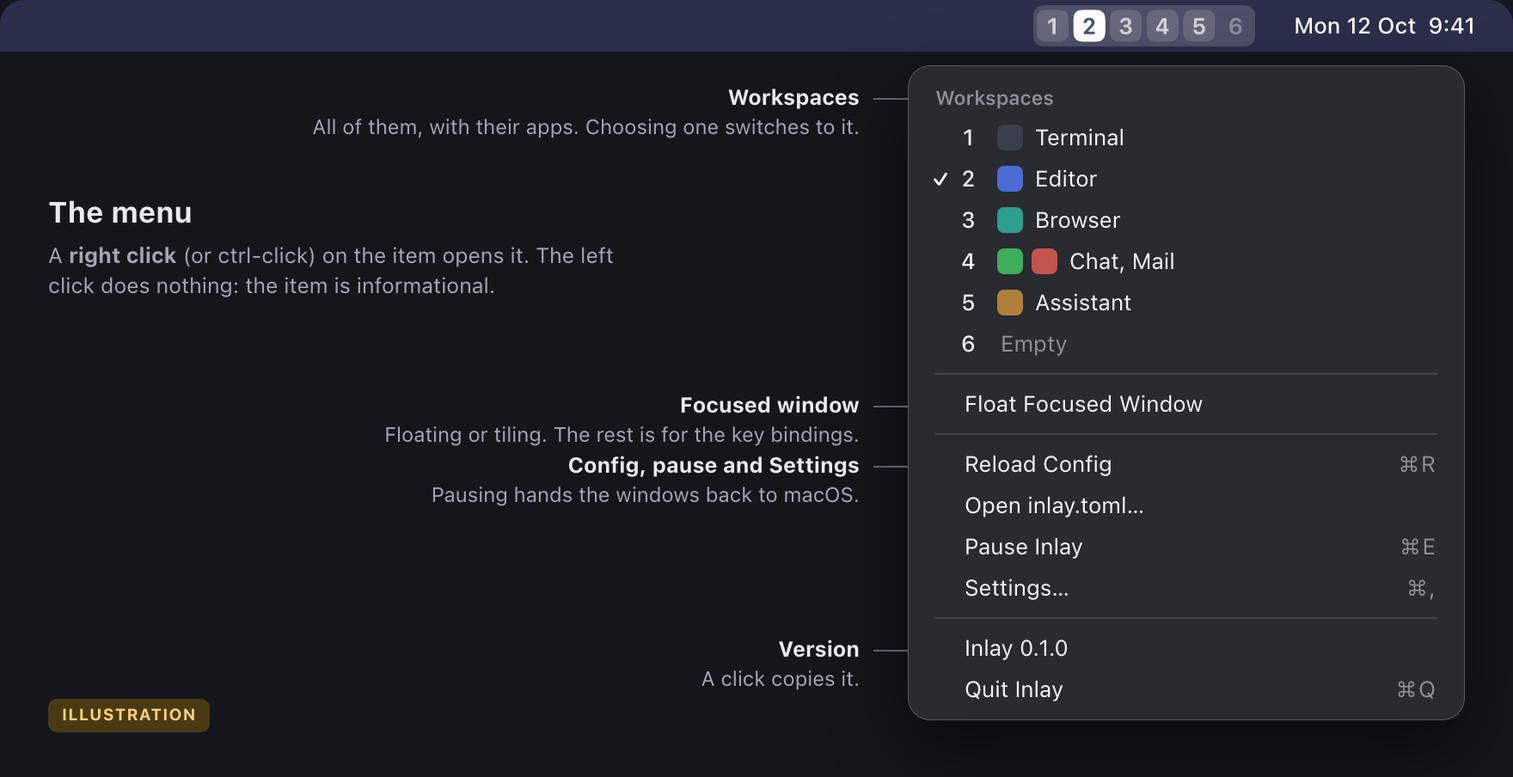
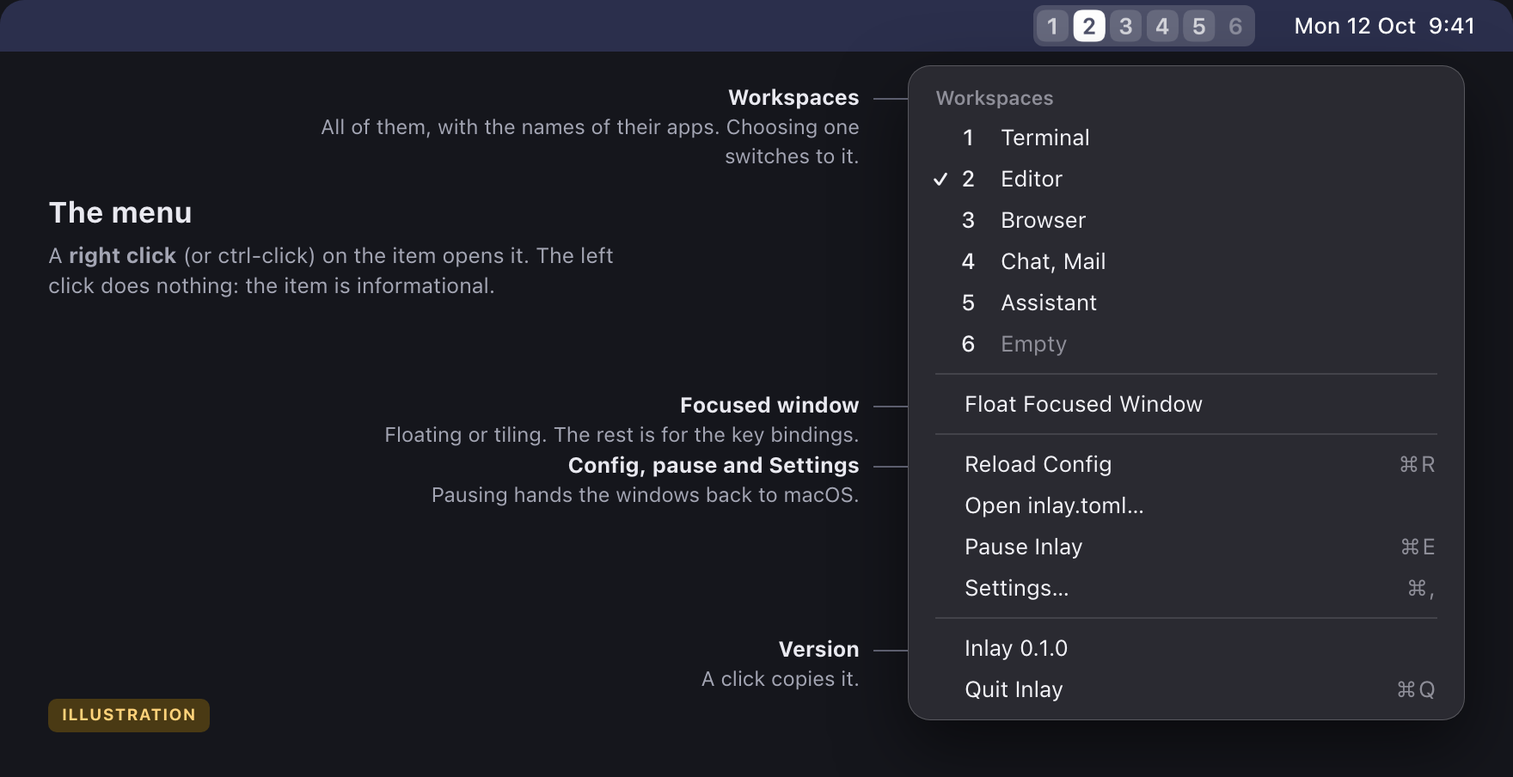
Document the mode in the marker, the linked config folder and the uninstall
README and images: the binding mode in the marker of the focused workspace,
the menu without icons, the Settings window on a small screen and its debug
mode, the question of install.sh and the config that 'inlay uninstall'
removes. The terminal images are the new output of the isolated runs.

Changed region(s): [[0.6562, 0.1549, 0.7812, 0.4027], [0.1875, 0.1549, 0.5625, 0.2168]]

diff --git a/docs/images/src/menu-bar-colors.html b/docs/images/src/menu-bar-colors.html
@@ -12,23 +12,23 @@
 <body class="png">
 <div class="sheet"><span class="tag real">Real render</span>
   <h1>[menu-bar.colors]</h1>
-  <div class="sub">Each color is <code class="key">'#RRGGBB'</code>, <code class="key">'#RRGGBBAA'</code>, <code class="key">'system-accent'</code> or <code class="key">'auto'</code>: the color of the menu bar text, white on a dark bar and black on a light one. Shown in the <code class="key">resize</code> mode with <code class="key">show-mode = true</code>, so the accent is visible.</div>
+  <div class="sub">Each color is <code class="key">'#RRGGBB'</code>, <code class="key">'#RRGGBBAA'</code>, <code class="key">'system-accent'</code> or <code class="key">'auto'</code>: the color of the menu bar text, white on a dark bar and black on a light one. Shown in the <code class="key">resize</code> mode with <code class="key">show-mode = true</code>, so the marker of the mode is visible.</div>
   <div class="cols">
     <div><div class="toml mono">
 # The defaults
 [menu-bar.colors]
-    accent = 'system-accent'
+    accent = 'auto'
     focused = 'auto'
     occupied = 'auto'
     empty = 'auto'
-</div><div class="bars"><div class="box d"><img class="item" src="render/menu-bar-6x/chips-mode-dark.png" style="height:33px"></div><div class="box l"><img class="item" src="render/menu-bar-6x/chips-mode-light.png" style="height:33px"></div></div><div class="cap"><small>The accent is the one of this Mac (System Settings › Appearance)</small></div></div>
+</div><div class="bars"><div class="box d"><img class="item" src="render/menu-bar-6x/chips-mode-dark.png" style="height:33px"></div><div class="box l"><img class="item" src="render/menu-bar-6x/chips-mode-light.png" style="height:33px"></div></div><div class="cap"><small>One color that follows the menu bar. With <code>accent = 'system-accent'</code>, the marker of a binding mode has the accent color of this Mac:</small></div><div class="bars" style="margin-top:6px"><div class="box d"><img class="item" src="render/menu-bar-6x/chips-mode-accent-dark.png" style="height:33px"></div><div class="box l"><img class="item" src="render/menu-bar-6x/chips-mode-accent-light.png" style="height:33px"></div></div></div>
     <div><div class="toml mono">
 [menu-bar.colors]
     accent = '#E06C75'
     focused = '#D19A66'
     occupied = '#ABB2BF'
     empty = '#6B7280'
-</div><div class="bars"><div class="box d"><img class="item" src="render/menu-bar-6x/chips-mode-custom-dark.png" style="height:33px"></div><div class="box l"><img class="item" src="render/menu-bar-6x/chips-mode-custom-light.png" style="height:33px"></div></div><div class="bars" style="margin-top:6px"><div class="box d"><img class="item" src="render/menu-bar-6x/square-mode-custom-dark.png" style="height:33px"></div><div class="box l"><img class="item" src="render/menu-bar-6x/square-mode-custom-light.png" style="height:33px"></div></div><div class="cap"><small><code>accent</code>: the mode badge · <code>focused</code>: the focused workspace · <code>occupied</code>: with windows (the name, and its background at 16%) · <code>empty</code>: without windows. A fixed color does not adapt to the menu bar</small></div></div>
+</div><div class="bars"><div class="box d"><img class="item" src="render/menu-bar-6x/chips-mode-custom-dark.png" style="height:33px"></div><div class="box l"><img class="item" src="render/menu-bar-6x/chips-mode-custom-light.png" style="height:33px"></div></div><div class="bars" style="margin-top:6px"><div class="box d"><img class="item" src="render/menu-bar-6x/square-mode-custom-dark.png" style="height:33px"></div><div class="box l"><img class="item" src="render/menu-bar-6x/square-mode-custom-light.png" style="height:33px"></div></div><div class="cap"><small><code>accent</code>: the marker of a binding mode · <code>focused</code>: the focused workspace · <code>occupied</code>: with windows (the name, and its background at 16%) · <code>empty</code>: without windows. A fixed color does not adapt to the menu bar</small></div></div>
     <div><div class="toml mono">
 [menu-bar.colors]
     focused = 'system-accent'

diff --git a/docs/images/src/menu-bar-options.html b/docs/images/src/menu-bar-options.html
@@ -2,7 +2,7 @@
 <html lang="en"><head><meta charset="utf-8"><title>The options of the menu bar item</title>
 <link rel="stylesheet" href="lib.css"><script src="lib.js"></script>
 <style>
-  body { width: 880px; height: 372px; }
+  body { width: 880px; height: 476px; }
   .opt { margin-top: 18px; } .cells { display: flex; flex-wrap: wrap; gap: 10px 22px; margin-top: 8px; }
   .box { border-radius: 8px; overflow: hidden; background: #383d5c; height: 33px; display: inline-block; } .box img { display: block; }
   .cap { margin-top: 5px; }
@@ -13,7 +13,7 @@
   <div class="sub">Each key with its values, on a dark menu bar.</div>
 <div class="opt"><div class="label mono" style="text-transform:none;letter-spacing:0;font-size:12.5px;color:#ffd27a">dim-empty-workspaces</div><div class="cells"><div><div class="box"><img class="item" src="render/menu-bar-6x/chips-default-dark.png" style="height:33px"></div><div class="cap"><code>true</code> (the default): the empty workspace 6 is fainter</div></div><div><div class="box"><img class="item" src="render/menu-bar-6x/chips-no-dim-dark.png" style="height:33px"></div><div class="cap"><code>false</code>: only the missing background tells it apart</div></div></div></div>
 
-<div class="opt"><div class="label mono" style="text-transform:none;letter-spacing:0;font-size:12.5px;color:#ffd27a">show-mode</div><div class="cells"><div><div class="box"><img class="item" src="render/menu-bar-6x/chips-default-dark.png" style="height:33px"></div><div class="cap"><code>false</code> (the default), or the mode is <code>main</code></div></div><div><div class="box"><img class="item" src="render/menu-bar-6x/chips-mode-dark.png" style="height:33px"></div><div class="cap"><code>true</code>, in the <code>resize</code> mode: a badge with its initial</div></div><div><div class="box"><img class="item" src="render/menu-bar-6x/minimal-mode-dark.png" style="height:33px"></div><div class="cap">the same in <code>'minimal'</code></div></div><div><div class="box"><img class="item" src="render/menu-bar-6x/square-mode-dark.png" style="height:33px"></div><div class="cap"><code>'square'</code> always shows the mode, in its square</div></div></div></div>
+<div class="opt"><div class="label mono" style="text-transform:none;letter-spacing:0;font-size:12.5px;color:#ffd27a">show-mode</div><div class="cells"><div><div class="box"><img class="item" src="render/menu-bar-6x/chips-default-dark.png" style="height:33px"></div><div class="cap"><code>false</code> (the default), or the mode is <code>main</code></div></div><div><div class="box"><img class="item" src="render/menu-bar-6x/chips-mode-dark.png" style="height:33px"></div><div class="cap"><code>true</code>, in the <code>resize</code> mode: its initial in the chip of the focused workspace</div></div><div><div class="box"><img class="item" src="render/menu-bar-6x/chips-mode-fullscreen-dark.png" style="height:33px"></div><div class="cap">the same with a fullscreen window: an outline</div></div><div><div class="box"><img class="item" src="render/menu-bar-6x/square-default-dark.png" style="height:33px"></div><div class="cap"><code>'square'</code>, in the <code>main</code> mode</div></div><div><div class="box"><img class="item" src="render/menu-bar-6x/square-mode-dark.png" style="height:33px"></div><div class="cap"><code>'square'</code>, in the <code>resize</code> mode: the square grows to hold the initial</div></div><div><div class="box"><img class="item" src="render/menu-bar-6x/minimal-default-dark.png" style="height:33px"></div><div class="cap"><code>'minimal'</code></div></div><div><div class="box"><img class="item" src="render/menu-bar-6x/minimal-mode-dark.png" style="height:33px"></div><div class="cap">in the <code>resize</code> mode</div></div></div><div class="cap" style="margin-top:10px">The item is exactly as wide in a binding mode as in <code>main</code>: nothing in the menu bar moves when the mode changes.</div></div>
 
 </div>
 <script>fillToml();</script>

diff --git a/docs/images/src/terminal-install.html b/docs/images/src/terminal-install.html
@@ -2,14 +2,14 @@
 <html lang="en"><head><meta charset="utf-8"><title>./install.sh</title>
 <link rel="stylesheet" href="lib.css"><script src="lib.js"></script>
 <style>
-  body { width: 880px; height: 708px; }
+  body { width: 880px; height: 724px; }
   .note { margin-top: 12px; font-size: 12px; color: #8f91a0; }
   .term pre { font-size: 11.5px; }
 </style></head>
 <body class="png">
 <div class="sheet"><span class="tag real">Real output</span>
   <h1>./install.sh</h1>
-  <div class="sub">It asks one thing, and only when it has just created your config: whether you prefer a symbolic link to a config file of your own.</div>
+  <div class="sub">It asks one thing, on every run: whether you want to use a config folder of your own through a symbolic link. Enter keeps what you have.</div>
   <div style="margin-top:16px"><div class="term"><div class="tb"><div class="lights"><i></i><i></i><i></i></div><span>inlay — zsh</span></div>
 <pre class="mono"><span class="p">❯</span> <span class="cmd">./install.sh</span>
 <span class="ok">==&gt;</span> <b style="color:#fff;font-weight:600">Requirements: macOS 27.0.1, Swift 6.4 (/Library/Developer/CommandLineTools)</b>
@@ -18,11 +18,12 @@
 <span class="ok">==&gt;</span> <b style="color:#fff;font-weight:600">Linked the CLI: ~/.local/bin/inlay -&gt; /Applications/Inlay.app/Contents/Resources/bin/inlay</b>
 <span class="dim">[…]</span>
 <span class="ok">==&gt;</span> <b style="color:#fff;font-weight:600">Created ~/.config/inlay/inlay.toml (a copy of the inlay.toml of the repo)</b>
-    If you keep your config somewhere else (a dotfiles repo), ~/.config/inlay/inlay.toml
-    can be a symbolic link to it instead of this copy.
-    Replace the copy with a symbolic link to your own config file? [y/N] <span class="in">y</span>
-    Path of your config file: <span class="in">~/dotfiles/my.toml</span>
-<span class="ok">==&gt;</span> <b style="color:#fff;font-weight:600">Linked the config: ~/.config/inlay/inlay.toml -&gt; ~/dotfiles/my.toml</b>
+    Your config can live in a folder of your own (a dotfiles repo, for example): then
+    ~/.config/inlay is a symbolic link to that folder, and Inlay uses the inlay.toml in it.
+    Use a config folder of your own through a symbolic link? [y/N] <span class="in">y</span>
+    Path of your config folder (for example ~/.dotfiles/inlay): <span class="in">~/dotfiles/inlay</span>
+<span class="ok">==&gt;</span> <b style="color:#fff;font-weight:600">Linked the config folder: ~/.config/inlay -&gt; ~/dotfiles/inlay</b>
+    Inlay reads and writes ~/dotfiles/inlay/inlay.toml
 <span class="ok">==&gt;</span> <b style="color:#fff;font-weight:600">Checking the config</b>
     '~/.config/inlay/inlay.toml' has no errors or warnings
 <span class="ok">==&gt;</span> <b style="color:#fff;font-weight:600">Accessibility permission</b>

diff --git a/docs/images/src/terminal-uninstall.html b/docs/images/src/terminal-uninstall.html
@@ -2,25 +2,27 @@
 <html lang="en"><head><meta charset="utf-8"><title>inlay uninstall</title>
 <link rel="stylesheet" href="lib.css"><script src="lib.js"></script>
 <style>
-  body { width: 880px; height: 412px; }
+  body { width: 880px; height: 462px; }
   .note { margin-top: 12px; font-size: 12px; color: #8f91a0; }
   .term pre { font-size: 11.5px; }
 </style></head>
 <body class="png">
 <div class="sheet"><span class="tag real">Real output</span>
   <h1>inlay uninstall</h1>
-  <div class="sub">It lists what it removes and asks first. Your config stays unless you add <code class="key">--purge</code>.</div>
+  <div class="sub">It lists what it removes and asks first. Your config goes too; when <code class="key">~/.config/inlay</code> is a symbolic link to a folder of yours, only the link does.</div>
   <div style="margin-top:16px"><div class="term"><div class="tb"><div class="lights"><i></i><i></i><i></i></div><span>inlay — zsh</span></div>
 <pre class="mono"><span class="p">❯</span> <span class="cmd">inlay uninstall</span>
 <span class="ok">==&gt;</span> <b style="color:#fff;font-weight:600">This removes Inlay:</b>
     - /Applications/Inlay.app (and its login item)
     - ~/.local/bin/inlay
-    Your config is kept (use --purge to remove it too).
+    - ~/.config/inlay (your config: a symbolic link. Only the link is removed:
+      what it points to, ~/dotfiles/inlay, is kept)
+    Kept: the preferences of the app (--purge removes them too).
 Remove Inlay? [y/N] <span class="in">y</span>
-<span class="ok">==&gt;</span> <b style="color:#fff;font-weight:600">Quitting the running Inlay</b>
 <span class="ok">==&gt;</span> <b style="color:#fff;font-weight:600">/Applications/Inlay.app is not in the login items any more</b>
 <span class="ok">==&gt;</span> <b style="color:#fff;font-weight:600">Removing /Applications/Inlay.app</b>
 <span class="ok">==&gt;</span> <b style="color:#fff;font-weight:600">Removed ~/.local/bin/inlay</b>
+<span class="ok">==&gt;</span> <b style="color:#fff;font-weight:600">Removed the link ~/.config/inlay (what it pointed to was not touched)</b>
 <span class="ok">==&gt;</span> <b style="color:#fff;font-weight:600">Done</b>
     To go back to AeroSpace: open AeroSpace and AeroMenu, and run 'brew services start borders'.</pre></div></div>
   <div class="note">The output of <code>inlay uninstall</code> in an isolated test run (another <code>HOME</code> and install folder), with the paths of that sandbox written as the default ones.</div>

diff --git a/README.md b/README.md
@@ -38,7 +38,9 @@ yet been tried in real use**, only with tests: `split-target` and `min-window-si
 the menu as text, and the minimized window that goes back to its workspace. The same goes for the third
 revision (installing without options, `inlay.toml` as the shipped config, the question about the symbolic link,
 `inlay uninstall`, `inlay config --explain` and the reload of a config saved by hand): tried in an isolated
-environment and with tests, not yet in real use.
+environment and with tests, not yet in real use. And for the latest one: the binding mode in the marker of
+the focused workspace, the menu without icons, the Settings window that fits small screens, the config folder
+linked by `install.sh` and `inlay uninstall` removing the config.
 
 Known limitations of this version:
 
@@ -74,24 +76,24 @@ No option is needed. `install.sh`:
 3. creates `~/.config/inlay/inlay.toml` as a copy of the [`inlay.toml`](./inlay.toml) of the repo, **if you
    have no Inlay config yet**. A config that already exists is yours: see
    [A config that you already have](#a-config-that-you-already-have);
-4. right after creating that copy, **asks whether you prefer a symbolic link to a config file of your own**
-   (one you keep in a dotfiles repo, for example). If you answer yes, it asks for the path (`~` is
-   expanded). If the file exists, the copy is replaced by a link to it; if it does not, the script warns
-   and keeps the copy. Without a terminal to ask on (stdin is not a TTY) it asks nothing and keeps the copy;
+4. **asks, every time, whether you want to use a config folder of your own through a symbolic link** (one
+   you keep in a dotfiles repo, for example). Enter means no and keeps what you have. See
+   [Your own config folder](#your-own-config-folder). Without a terminal to ask on (stdin is not a TTY) it
+   asks nothing;
 5. checks the config with the parser of the app it has just installed and prints its errors and warnings
    (they never stop the installation);
 6. **opens Inlay** and says so, with what to do the first time (see
    [Before opening Inlay](#before-opening-inlay)).
 
-<p align="center"><img src="docs/images/terminal-install.png" alt="Real output of ./install.sh in a terminal: it installs Inlay.app, links the CLI, creates ~/.config/inlay/inlay.toml as a copy of the inlay.toml of the repo, asks 'Replace the copy with a symbolic link to your own config file? [y/N]', gets 'y' and the path ~/dotfiles/my.toml, links the config, checks it, explains the Accessibility permission and opens Inlay" width="880"></p>
+<p align="center"><img src="docs/images/terminal-install.png" alt="Real output of ./install.sh in a terminal: it installs Inlay.app, links the CLI, creates ~/.config/inlay/inlay.toml as a copy of the inlay.toml of the repo, asks 'Use a config folder of your own through a symbolic link? [y/N]', gets 'y' and the path ~/dotfiles/inlay, links ~/.config/inlay to that folder, checks the config, explains the Accessibility permission and opens Inlay" width="880"></p>
 
 It can be run as many times as needed: it updates what is installed, quitting the running copy first.
 
 | Option | Effect |
 |---|---|
 | `--reset-config` | Replaces your config by the `inlay.toml` of the repo, whatever is in it, and keeps yours next to it as `inlay.toml.backup-<date>`. See [A config that you already have](#a-config-that-you-already-have) |
-| `--config-link PATH` | Makes the config a symbolic link to `PATH` instead of asking. Only when there is no Inlay config yet, and only if `PATH` exists (otherwise the copy is kept, with a warning) |
-| `--no-prompt` | Asks nothing and keeps the copy of `inlay.toml` |
+| `--config-link FOLDER` | Links `~/.config/inlay` to `FOLDER` instead of asking, with the rules of [Your own config folder](#your-own-config-folder). Also on a reinstall |
+| `--no-prompt` | Asks nothing and keeps the config as it is |
 | `--import-aerospace` | If you have no Inlay config, start from your `~/.aerospace.toml` instead of `inlay.toml` |
 | `--no-open` | Does not open Inlay when done |
 | `--adhoc-signing` | Ad hoc signature instead of the local identity (see [Signing](#signing)) |
@@ -103,6 +105,31 @@ is copied and the original is not touched). Check three things in the copy: `sta
 Inlay add itself to the login items the first time it starts; the key bindings or scripts that call the
 `aerospace` CLI keep talking to AeroSpace and must call `inlay`; and with `gaps` of 8 or less the borders of
 two neighboring windows touch.
+
+### Your own config folder
+
+On every run, also when you already have a config, `install.sh` asks:
+
+```
+Use a config folder of your own through a symbolic link? [y/N]
+```
+
+Enter (or `n`) keeps what you have. With `y` it asks for the path of a **folder** (`~` is expanded;
+`~/.dotfiles/inlay`, for example) and makes **`~/.config/inlay` a symbolic link to that folder**. Inlay reads
+and writes the `inlay.toml` in it; nothing else in the folder is touched.
+
+| What it finds | What it does |
+|---|---|
+| The folder does not exist | Warns and links nothing. Your config stays as it is: on a new install, the copy of `inlay.toml` in `~/.config/inlay/` |
+| The folder has no `inlay.toml` | Warns and asks `Copy the inlay.toml of the repo into <folder>? [y/N]`. With no, nothing is copied and nothing is linked |
+| You had a real `~/.config/inlay` | It is not deleted: it is renamed to `~/.config/inlay.backup-<date>`, and the script says so |
+| `~/.config/inlay` is already a link | The question says it (`currently linked to …`), and Enter changes nothing. Linking another folder replaces only the link: the folder it pointed to is not touched |
+| Only the file is linked (`~/.config/inlay/inlay.toml -> your file`, the way a previous version did it) | It keeps working and Enter leaves it alone. With `y`, the folder that holds your file is offered as the path, and the old `~/.config/inlay` becomes the backup |
+| Your config is `~/.inlay.toml` | The question is skipped: Inlay reads one file or the other, never both |
+
+`--config-link FOLDER` does the same without asking (a folder without `inlay.toml` is only filled in when
+there is a terminal to ask on), and `--no-prompt` skips the question. To stop using your folder, remove the
+link (`rm ~/.config/inlay`) and run `./install.sh` again.
 
 ### A config that you already have
 
@@ -122,9 +149,14 @@ repo (key bindings, rules, options) is not in it. It also tells if the config ha
 rule, and prints the two commands that matter: `./install.sh --reset-config` to switch to the config of the
 repo, and a `diff` to compare them. A config changed from the Settings window counts as edited: it is kept.
 
-A config that is a **symbolic link** is always taken for your own, whatever the file it points to has in it.
-With `--reset-config` only the link is replaced: it is renamed to `inlay.toml.backup-<date>`, still pointing
-to your file, which is never written, moved or deleted.
+A config that is reached through a **symbolic link** (a linked folder, or a linked file) is always taken for
+your own, whatever is in it: it is never replaced on its own. `--reset-config` never writes, moves or deletes
+what a link points to either:
+
+- with a **linked folder**, the link itself is renamed to `~/.config/inlay.backup-<date>` (it still points to
+  your folder) and `~/.config/inlay` becomes a real folder with the `inlay.toml` of the repo. The script prints
+  the command that links your folder again;
+- with a **linked file**, the link is renamed to `inlay.toml.backup-<date>`, still pointing to your file.
 
 To go back to a backup: `mv ~/.config/inlay/inlay.toml.backup-<date> ~/.config/inlay/inlay.toml`.
 After changing `inlay.toml` in the repo, `scripts/update-default-config-hashes.sh` adds it to the list (a test
@@ -175,8 +207,8 @@ shell: `install.sh` warns when it sees it set.)
 `install.sh` copies, and a copy of it travels inside the app as the fallback for when there is no config at
 all. It is a real config rather than a neutral sample: 6 persistent workspaces, key bindings on
 `cmd-alt-ctrl-…` and `cmd-alt-shift-…`, the `service` and `resize` modes and `on-window-detected` rules that
-send each app to its workspace. Make it yours by editing your copy, or point the config to your own file
-with a symbolic link (the question of `install.sh`, or `--config-link`).
+send each app to its workspace. Make it yours by editing your copy, or keep your config in a folder of your
+own and link it (the question of `install.sh`, or `--config-link`).
 
 The rules are checked from top to bottom, and **the first one that matches a window is the only one that runs
 for it** (a rule with `check-further-callbacks = true` lets the next ones run too; the shipped config has
@@ -224,9 +256,9 @@ A test fails if the config parser accepts a key that the reference does not docu
 (see [Menu bar and settings](#menu-bar-and-settings)). In the other direction, with
 `auto-reload-config = true` (it is set in the shipped `inlay.toml`; the default of the key is `false`), Inlay
 reloads the config when the file is saved by hand, and the Settings window, if it is open, the menu bar item
-and the borders show the new values right away, without closing anything. It works when the config is a
-symbolic link to a file in another folder, with editors that save by writing a new file and renaming it over
-the old one, and when the link is pointed to another file. A save that leaves the file unreadable as TOML
+and the borders show the new values right away, without closing anything. It works when `~/.config/inlay` is
+a symbolic link to a folder of yours, when the file itself is a link, with editors that save by writing a new
+file and renaming it over the old one, and when a link is pointed somewhere else. A save that leaves the file unreadable as TOML
 is not applied (the previous config stays, and a window shows the error); the next save is picked up as usual.
 Without that key, reload by hand: `inlay reload-config` or *Reload Config* in the menu, which refresh
 Settings the same way. Settings writing the file does not cause a second reload.
@@ -401,8 +433,7 @@ is configured in the `[menu-bar]` table of the config; `inlay config --explain m
 | `theme` | `'chips'`, `'square'`, `'minimal'` | `'chips'` |
 | `dim-empty-workspaces` | `true`, `false` | `true` |
 | `show-mode` | `true`, `false` | `false` |
-| `[menu-bar.colors]` `accent` | color | `'system-accent'` |
-| `[menu-bar.colors]` `focused`, `occupied`, `empty` | color or `'auto'` | `'auto'` |
+| `[menu-bar.colors]` `accent`, `focused`, `occupied`, `empty` | color or `'auto'` | `'auto'` |
 
 **`theme`**: the shape of the item.
 
@@ -424,28 +455,37 @@ the theme is treated as `'chips'` and the key is ignored. Picking a theme in Set
 [menu-bar]
     enabled = true
     dim-empty-workspaces = true
-    show-mode = false             # a badge with the initial of the binding mode, when it is not 'main'
+    show-mode = false             # the initial of the binding mode on the marker of the focused workspace
 ```
 
-<p align="center"><img src="docs/images/menu-bar-options.png" alt="Real render of the options of the menu bar item. dim-empty-workspaces: with true the empty workspace 6 is fainter, with false it only lacks the background. show-mode: no badge with false or in the main mode; an orange badge with an R in the resize mode, in 'chips' and in 'minimal'; and the 'square' theme, which always shows the R in its square" width="880"></p>
+With `show-mode = true`, while the binding mode is not `main` (`resize`, `service`…), **the marker of the
+focused workspace carries the initial of the mode**, the way Aeromenu did it. In `chips` and `minimal` the
+initial takes the place of the name in the chip; in `square` the square grows from 8.5 to 14 pt to hold it.
+Nothing is added next to the workspaces, so the item is exactly as wide in every mode and nothing in the menu
+bar moves. While a window of the workspace is fullscreen, the marker is an outline and the initial is drawn
+inside it. The key governs the three themes (`square` used to show the mode always).
+
+<p align="center"><img src="docs/images/menu-bar-options.png" alt="Real render of the options of the menu bar item. dim-empty-workspaces: with true the empty workspace 6 is fainter, with false it only lacks the background. show-mode: the plain item with false or in the main mode; with true, in the resize mode, an R in the chip of the focused workspace in 'chips' and in 'minimal', and in a larger square in 'square', the item as wide as before; and the same with a fullscreen window, the R inside of an outline" width="880"></p>
 
 **`[menu-bar.colors]`**: a color is `'#RRGGBB'`, `'#RRGGBBAA'` or `'system-accent'`. `'auto'` is the color of
-the menu bar text (white on a dark bar, black on a light one). With everything set to `'auto'` and no mode badge, the
-item is a template image identical to the one of Aeromenu; a fixed color does not adapt to the bar.
+the menu bar text (white on a dark bar, black on a light one). With everything set to `'auto'`, the
+item is a template image identical to the one of Aeromenu, also while it shows a binding mode; a fixed color
+does not adapt to the bar. `accent` is the color of the marker while it shows the binding mode: `'auto'` is
+the same as `focused`, and over a fixed color the initial is white, or black if the color is light.
 
 ```toml
 [menu-bar.colors]
-    accent = 'system-accent'   # the mode badge. Not 'auto'
+    accent = 'auto'            # the marker of the focused workspace while it shows the binding mode
     focused = 'auto'           # the background of the focused workspace
     occupied = 'auto'          # the workspaces with windows: the name and, at 16%, its background
     empty = 'auto'             # the workspaces without windows
 ```
 
-<p align="center"><img src="docs/images/menu-bar-colors.png" alt="Real render of the colors of the menu bar item, with three configs and their TOML, each on a dark and on a light bar. The defaults: white or black chips that follow the bar, and the mode badge in the accent color of the system. Custom colors (accent '#E06C75', focused '#D19A66', occupied '#ABB2BF', empty '#6B7280'): the same colors on both bars, also shown in the 'square' theme. And focused = 'system-accent': the focused workspace in the accent color" width="880"></p>
+<p align="center"><img src="docs/images/menu-bar-colors.png" alt="Real render of the colors of the menu bar item, with three configs and their TOML, each on a dark and on a light bar. The defaults: white or black chips that follow the bar, the R of the resize mode cut out of the focused one. accent = 'system-accent': that chip in the accent color of the system, with a white R. Custom colors (accent '#E06C75', focused '#D19A66', occupied '#ABB2BF', empty '#6B7280'): the same colors on both bars, also shown in the 'square' theme. And focused = 'system-accent': the focused workspace in the accent color" width="880"></p>
 
 **The item and its menu**
 
-<p align="center"><img src="docs/images/menu.png" alt="Illustration of the menu that a right click on the item opens, from top to bottom: Workspaces (1 to 6 with their apps, drawn as generic ones, 2 checked, 6 'Empty'), Float Focused Window, then Reload Config, Open inlay.toml, Pause Inlay and Settings, the version ('Inlay 0.1.0') and Quit Inlay" width="720"></p>
+<p align="center"><img src="docs/images/menu.png" alt="Illustration of the menu that a right click on the item opens, from top to bottom: Workspaces (1 to 6 with the names of their apps as text, without icons, 2 checked, 6 'Empty'), Float Focused Window, then Reload Config, Open inlay.toml, Pause Inlay and Settings, the version ('Inlay 0.1.0') and Quit Inlay" width="720"></p>
 
 
 - The item is **informational only**: the left click does nothing (it does not switch workspace or open the
@@ -454,8 +494,8 @@ item is a template image identical to the one of Aeromenu; a fixed color does no
   key bindings, the CLI or the *Workspaces* section of the menu. The left click does not highlight the item
   either: the button never gets to see the mouse (a transparent view on top of it takes it). With the menu
   open, the item is highlighted like any menu of the menu bar. A ⌘-drag still moves the item along the bar.
-- The menu is short on purpose. It lists the workspaces with the apps that have windows in each one
-  (choosing one switches to it), toggles the focused window between floating and tiling, and has what concerns
+- The menu is short on purpose. It lists the workspaces with the names of the apps that have windows in each
+  one, as text and without icons (choosing one switches to it), toggles the focused window between floating and tiling, and has what concerns
   Inlay itself: *Reload Config*, *Open inlay.toml…*, *Pause/Resume Inlay*, *Settings…*, the version (a click
   copies it, with the commit) and *Quit*. Moving a window to another workspace, fullscreen, the layout and the
   binding modes are not in it: they are done with the key bindings. **The menu does not show the key bindings
@@ -465,7 +505,7 @@ item is a template image identical to the one of Aeromenu; a fixed color does no
   other workspace exists (and appears in the item) while it has windows or is the visible one.
 - **Settings…** (⌘, in the menu, or opening Inlay again from Applications) edits those keys **in your config
   file**, line by line and without touching comments or the rest of the file, and reloads the config. If the
-  config is a symbolic link, it is written to its target. If you have no config yet, the first change creates
+  config folder or the file is a symbolic link, the file is written where it really lives and the link stays. If you have no config yet, the first change creates
   `~/.config/inlay/inlay.toml` from the shipped one. A key written with dots (`menu-bar.theme = …`) or
   inside an inline table is not edited from Settings: its control appears disabled. A subtable that does not
   exist yet (`[menu-bar.colors]`, `[borders.mode-colors]`) is added right after its parent table.
@@ -486,6 +526,11 @@ tabs with the shipped config (click one to see it at full size):
 
 <sub>Real renders, drawn off screen by `Inlay --render-settings` (see [Development](#development)): only the content
 of each tab, without the title bar and the tab bar of the window.</sub>
+
+The window is never taller than the usable part of the screen and never leaves it. A tab that does not fit
+(on the screen of a small laptop, General is taller than what the menu bar and the Dock leave) scrolls, so
+every control can be reached. `Inlay --debug-settings <config> [--inspect] [--screen-height <points>]` opens
+the window alone, without the window manager, against a config file of your choice.
 
 How the window and the file follow each other is in [Configuration](#configuration).
 
@@ -602,11 +647,11 @@ there is no JankyBorders code and SkyLight is not used.
 ## Uninstallation
 
 ```sh
-inlay uninstall           # quits Inlay and removes the app, the CLI link and the login item
-inlay uninstall --purge   # also deletes your config and the preferences of the app
+inlay uninstall           # quits Inlay and removes the app, the CLI link, the login item and your config
+inlay uninstall --purge   # also the preferences of the app and the config backups of install.sh
 ```
 
-<p align="center"><img src="docs/images/terminal-uninstall.png" alt="Real output of 'inlay uninstall' in a terminal: it lists what it removes (/Applications/Inlay.app and its login item, and ~/.local/bin/inlay), says that the config is kept, asks 'Remove Inlay? [y/N]', gets 'y', quits the running Inlay, removes the app and the CLI link, and says how to go back to AeroSpace" width="880"></p>
+<p align="center"><img src="docs/images/terminal-uninstall.png" alt="Real output of 'inlay uninstall' in a terminal: it lists what it removes (/Applications/Inlay.app and its login item, ~/.local/bin/inlay and ~/.config/inlay, a symbolic link of which only the link is removed), says what is kept, asks 'Remove Inlay? [y/N]', gets 'y', removes the app, the CLI link and the link of the config, and says how to go back to AeroSpace" width="880"></p>
 
 It lists what it is going to remove and asks for confirmation; `--yes` skips the question (and is required
 when there is no terminal to answer on). It works whether Inlay is running or not: a running Inlay is quit
@@ -615,9 +660,21 @@ removes the app that contains it, so it runs from a temporary copy of the uninst
 itself at the end.
 
 It removes the app that the `inlay` you ran belongs to, and the copies in `/Applications` and in
-`~/Applications`; with `INSTALL_DIR=…` it looks in that folder instead of those two. Without `--purge` your
-config is kept. With `--purge`, if the config is a symbolic link to a file of yours, **only the link is
-removed**, never the file it points to.
+`~/Applications`; with `INSTALL_DIR=…` it looks in that folder instead of those two.
+
+**Your config is always removed**: `~/.config/inlay` and `~/.inlay.toml`. The list that you confirm says
+exactly what goes:
+
+- `~/.config/inlay` is a real folder: the folder and everything in it are deleted;
+- `~/.config/inlay` is a **symbolic link** to a folder of yours: **only the link is removed**. The folder it
+  points to and its `inlay.toml` are never touched, and the list names that folder as kept;
+- a link inside of a real `~/.config/inlay` (an `inlay.toml` linked by a previous version) goes with the
+  folder; the file it points to is never touched.
+
+`--purge` adds what is left behind: the preferences and the runtime files of the app, and the config backups
+that `install.sh` made outside of the config folder (`~/.config/inlay.backup-<date>`,
+`~/.inlay.toml.backup-<date>`; a backup that is a link is removed as a link). Without `--purge` they are kept,
+and the list names them.
 
 `./uninstall.sh` in the repo does the same (it is the same script, with the same options), for when the CLI
 is not at hand.
@@ -649,6 +706,19 @@ INLAY_RENDER_DIR=/tmp/inlay-item scripts/test.sh --filter SettingsModelTest   # 
 
 `--render-settings <dir> [<config>]` draws the tabs as they are with the shipped config, or with the config file
 given; it neither reads nor writes your config, and only shows the path a new config would get.
+
+The Settings window can also be opened for real, alone: `--debug-settings <config>` shows it without the
+window manager, the menu bar item, the key bindings or the Accessibility permission, editing the config file
+you give it (nothing is reloaded), and exits when the window is closed. With `--inspect` it does not wait: it
+shows every tab, prints where each control ended up and whether a click reaches it (scrolling to it if it takes
+that), and exits with an error if something can't be reached. `--screen-height <points>` makes the window
+behave as on a screen that leaves that much height.
+
+```sh
+cp inlay.toml /tmp/inlay-test.toml
+build/Inlay.app/Contents/MacOS/Inlay --debug-settings /tmp/inlay-test.toml
+build/Inlay.app/Contents/MacOS/Inlay --debug-settings /tmp/inlay-test.toml --inspect --screen-height 700
+```
 
 The same goes for the borders. `--render-borders` draws them off screen in each state, and `--debug-borders`
 shows them for real for a few seconds around the windows that are on screen (without moving anything and
